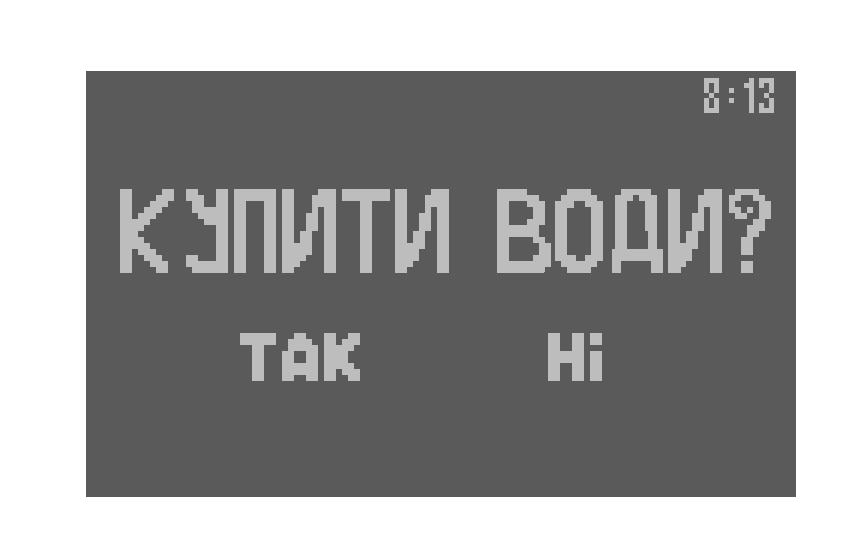
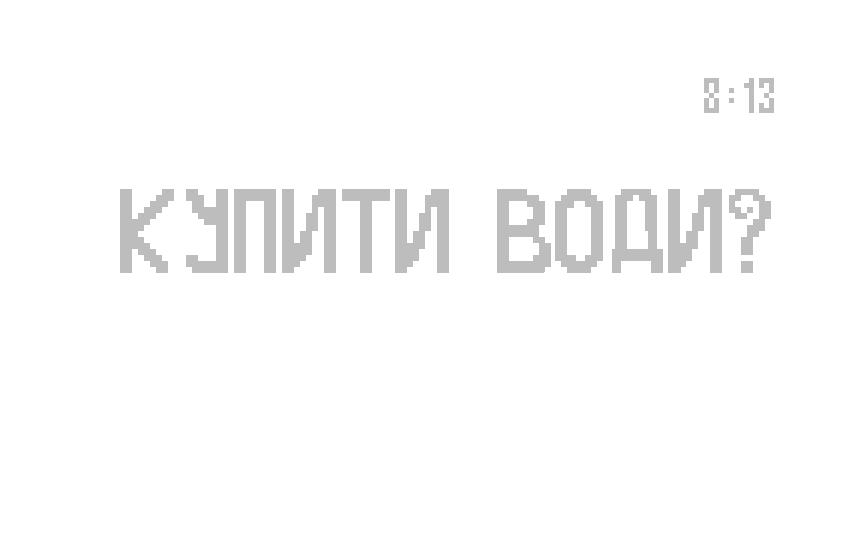
f

diff --git a/src/dialog.js b/src/dialog.js
@@ -1,0 +1,74 @@
+// dialog.js
+
+import { setPaused, gameData } from './gameData.js';
+import { images } from './assets.js'; // Чтобы получить путь к choose.png
+import { hero } from './state.js'; // Для сброса цели героя
+import { isWalkable } from './navmask.js'; // Для возможности кликнуть по сцене после выбора
+
+// --- HTML Элементы ---
+const popupEl = document.getElementById('popup');
+const popupImageEl = document.getElementById('popupImage');
+const yesButton = document.getElementById('yesButton');
+const noButton = document.getElementById('noButton');
+
+/**
+ * Показывает модальное окно с выбором "Купить воды?".
+ */
+export function showPopup() {
+  if (popupEl.classList.contains('show')) return;
+  
+  // 1. Пауза
+  setPaused(true);
+
+  // 2. Установка изображения
+  // Предполагаем, что images.choose было добавлено в assets.js
+  popupImageEl.src = images.choose.src; 
+
+  // 3. Показ
+  popupEl.classList.add('show');
+}
+
+/**
+ * Скрывает модальное окно и возобновляет игру.
+ */
+function hidePopup() {
+  // 1. Скрытие
+  popupEl.classList.remove('show');
+
+  // 2. Возобновление игры
+  setPaused(false);
+  
+  // 3. Сброс цели героя, чтобы он остановился.
+  hero.targetX = hero.x;
+  hero.targetY = hero.y;
+}
+
+// --- Обработчики Кнопок ---
+
+/**
+ * Логика для выбора "Да" (Красная зона).
+ */
+function handleYes() {
+  gameData.boughtWater = true;
+  console.log('Выбрано: Да, Купить воду (boughtWater:', gameData.boughtWater, ')');
+  hidePopup();
+}
+
+/**
+ * Логика для выбора "Нет" (Зеленая зона).
+ */
+function handleNo() {
+  gameData.boughtWater = false;
+  console.log('Выбрано: Нет, Не покупать (boughtWater:', gameData.boughtWater, ')');
+  hidePopup();
+}
+
+// --- Инициализация ---
+
+/**
+ * Привязывает обработчики к кнопкам попапа.
+ */
+export function bindDialogButtons() {
+  yesButton.addEventListener('click', handleYes);
+  noButton.addEventListener('click', handleNo);
+}

diff --git a/src/navmask.js b/src/navmask.js
@@ -1,3 +1,4 @@
+// navmask.js
 import { WALKABLE_MODE, WALKABLE_THRESHOLD, SEEK_RADIUS_PX } from './config.js';
 import { clamp } from './utils.js';
 import { images } from './assets.js';
@@ -21,6 +22,25 @@ export function prepareNavMask() {
   nav.data = nav.ctx.getImageData(0, 0, nav.w, nav.h).data;
 }
 
+// НОВАЯ ФУНКЦИЯ: Проверка, находится ли точка в зоне определенного цвета
+export function isColorZone(wx, wy, rTarget, gTarget, bTarget, tolerance = 10) {
+  if (!nav.data) return false;
+
+  const mx = Math.floor(clamp(wx, 0, nav.w - 1));
+  const my = Math.floor(clamp(wy, 0, nav.h - 1));
+  const idx = (my * nav.w + mx) * 4;
+  
+  const r = nav.data[idx];
+  const g = nav.data[idx + 1];
+  const b = nav.data[idx + 2];
+  // a = nav.data[idx + 3]; // Прозрачность пока не используем для триггеров
+
+  const diffR = Math.abs(r - rTarget);
+  const diffG = Math.abs(g - gTarget);
+  const diffB = Math.abs(b - bTarget);
+
+  return (diffR <= tolerance && diffG <= tolerance && diffB <= tolerance);
+}
 
 export function isWalkable(wx, wy) {
   if (!nav.data) return false;
@@ -37,6 +57,7 @@ export function isWalkable(wx, wy) {
     const score = Math.max(brightness, a);
     return score >= WALKABLE_THRESHOLD;
   } else {
+    // WALKABLE_MODE === 'brightness' (по умолчанию)
     const brightness = (r + g + b) / 3;
     return brightness >= WALKABLE_THRESHOLD;
   }

diff --git a/src/input.js b/src/input.js
@@ -1,7 +1,11 @@
+// input.js
 import { canvas, worldH } from './state.js';
 import { screenToWorld } from './camera.js';
 import { clamp } from './utils.js';
-import { projectTargetToWalkable } from './navmask.js';
+import { projectTargetToWalkable, isColorZone } from './navmask.js'; // <-- ИМПОРТ isColorZone
+import { showPopup } from './dialog.js'; // <-- ИМПОРТ showPopup
+
+const BLUE_ZONE = { r: 0, g: 0, b: 255 }; // Синяя зона для магазина
 
 export function bindPointer(hero) {
   canvas.addEventListener('pointerdown', (e) => {
@@ -12,7 +16,15 @@ export function bindPointer(hero) {
 
     const padY = hero.h * hero.anchorY;
     wy = clamp(wy, padY, worldH - (hero.h - padY));
+    
+    // 1. ПРОВЕРКА КЛИКА ПО СИНЕЙ ЗОНЕ (МАГАЗИН)
+    if (isColorZone(wx, wy, BLUE_ZONE.r, BLUE_ZONE.g, BLUE_ZONE.b)) {
+      console.log('Клик по синей зоне: Вызываем попап');
+      showPopup();
+      return; // Останавливаем обычное движение
+    }
 
+    // 2. ОБЫЧНОЕ ДВИЖЕНИЕ
     const snapped = projectTargetToWalkable(hero.x, hero.y, wx, wy);
     if (snapped.ok) {
       hero.targetX = snapped.x;

diff --git a/src/loop.js b/src/loop.js
@@ -1,5 +1,7 @@
+// loop.js
 import { render } from './render.js';
 import { smoothFollow } from './camera.js';
+import { isPaused } from './gameData.js'; // <-- ИМПОРТ
 
 let last = performance.now();
 
@@ -7,9 +9,11 @@ export function startLoop(updateFn, hero) {
   function loop(now) {
     const dt = Math.min(0.033, (now - last) / 1000);
     last = now;
-
-    updateFn(dt);       // твой update: движение/анимация героя и т.п.
-    smoothFollow(hero); // камера
+    
+    if (!isPaused) { // <-- ПРОВЕРКА ПАУЗЫ: обновление происходит только если игра не на паузе
+        updateFn(dt);       // твой update: движение/анимация героя и т.п.
+        smoothFollow(hero); // камера
+    }
 
     render(hero);
     requestAnimationFrame(loop);

diff --git a/src/assets.js b/src/assets.js
@@ -10,6 +10,7 @@ export const images = {
   scene: loadImage("../scene1.png"),
   hero:  loadImage("../hero.png"),
   nav:   loadImage("../navmask.png"),
+  choose: loadImage("../choose.png"),
 };
 
 export async function loadAllAssets() {
@@ -17,6 +18,7 @@ export async function loadAllAssets() {
     waitDecode(images.scene),
     waitDecode(images.hero),
     waitDecode(images.nav),
+    waitDecode(images.choose), 
     ...carSprites.map(s => waitDecode(s.img ? s.img : s)),
   ]);
 

diff --git a/src/gameData.js b/src/gameData.js
@@ -1,0 +1,10 @@
+export const gameData = {
+  boughtWater: false,
+};
+
+export let isPaused = false;
+
+export function setPaused(state) {
+  isPaused = state;
+  console.log('Game Paused:', isPaused);
+}
